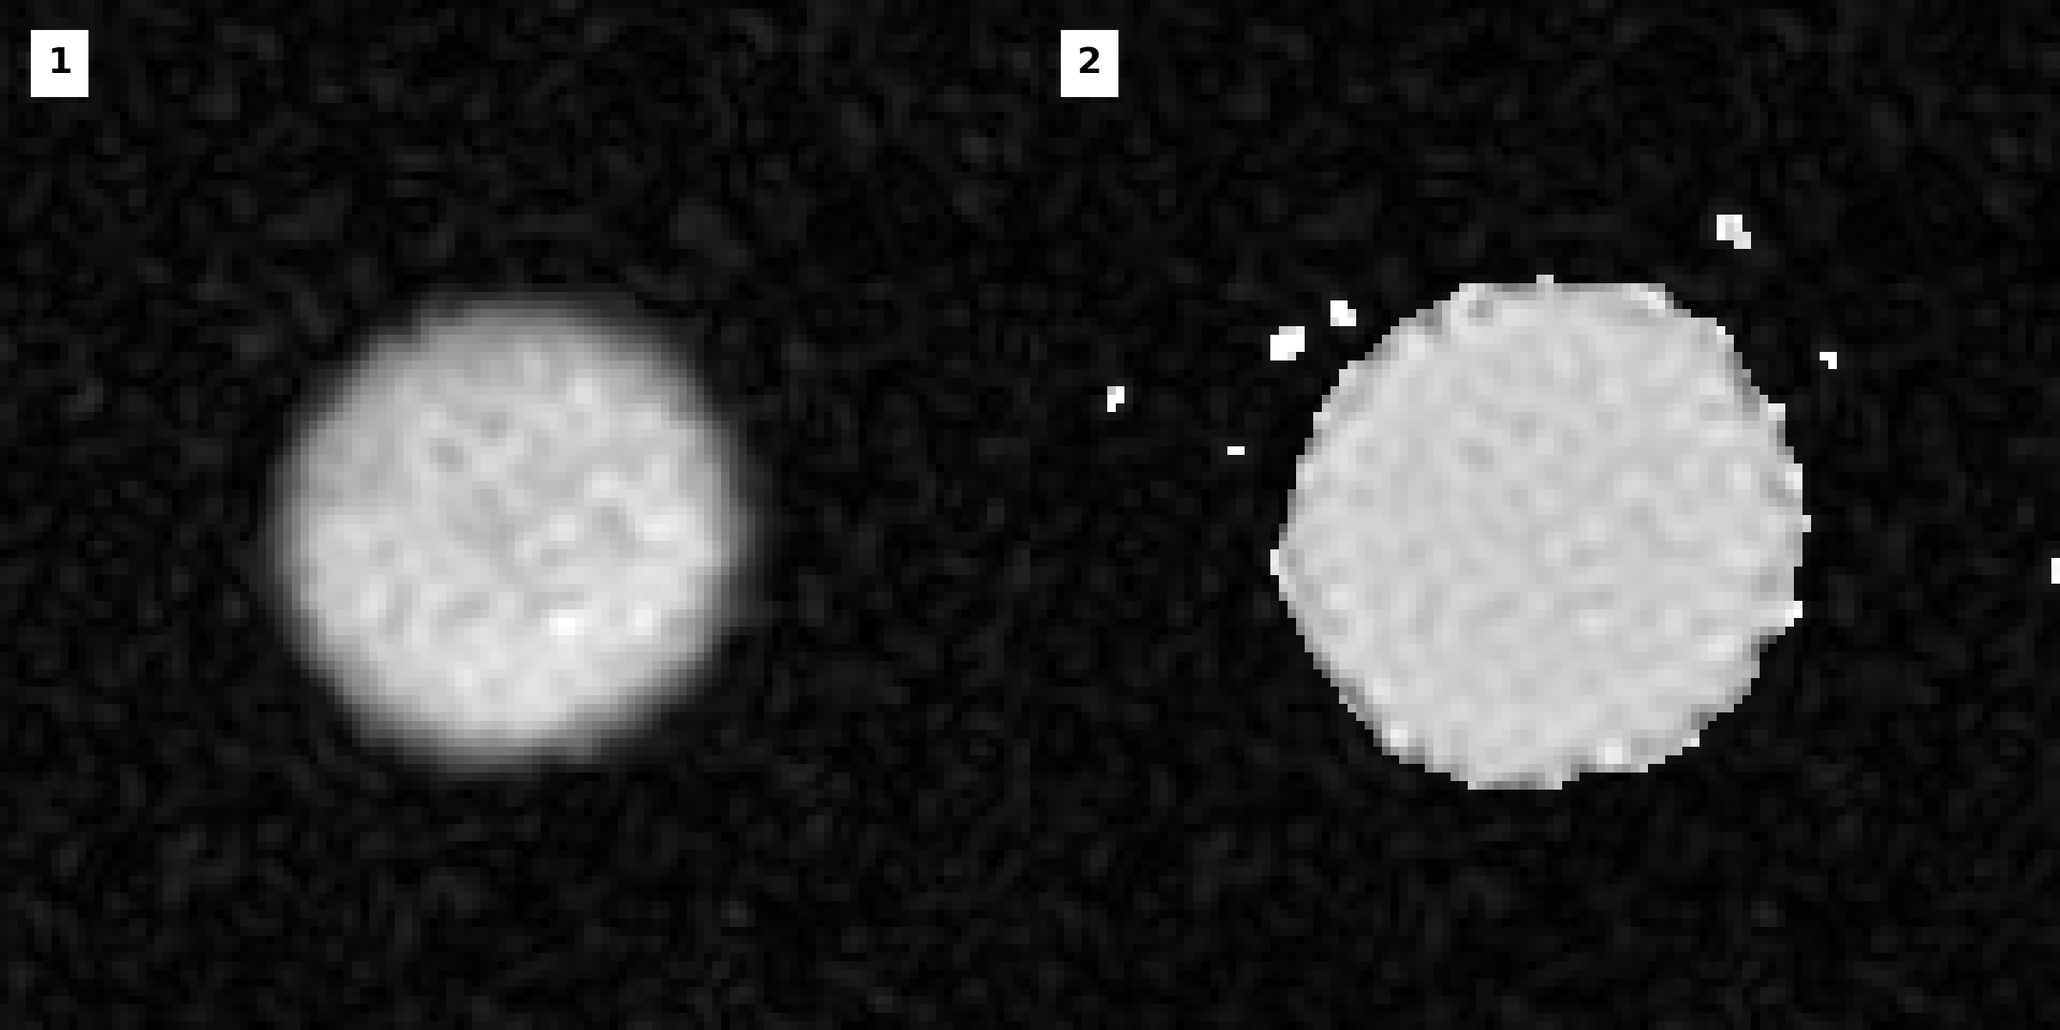
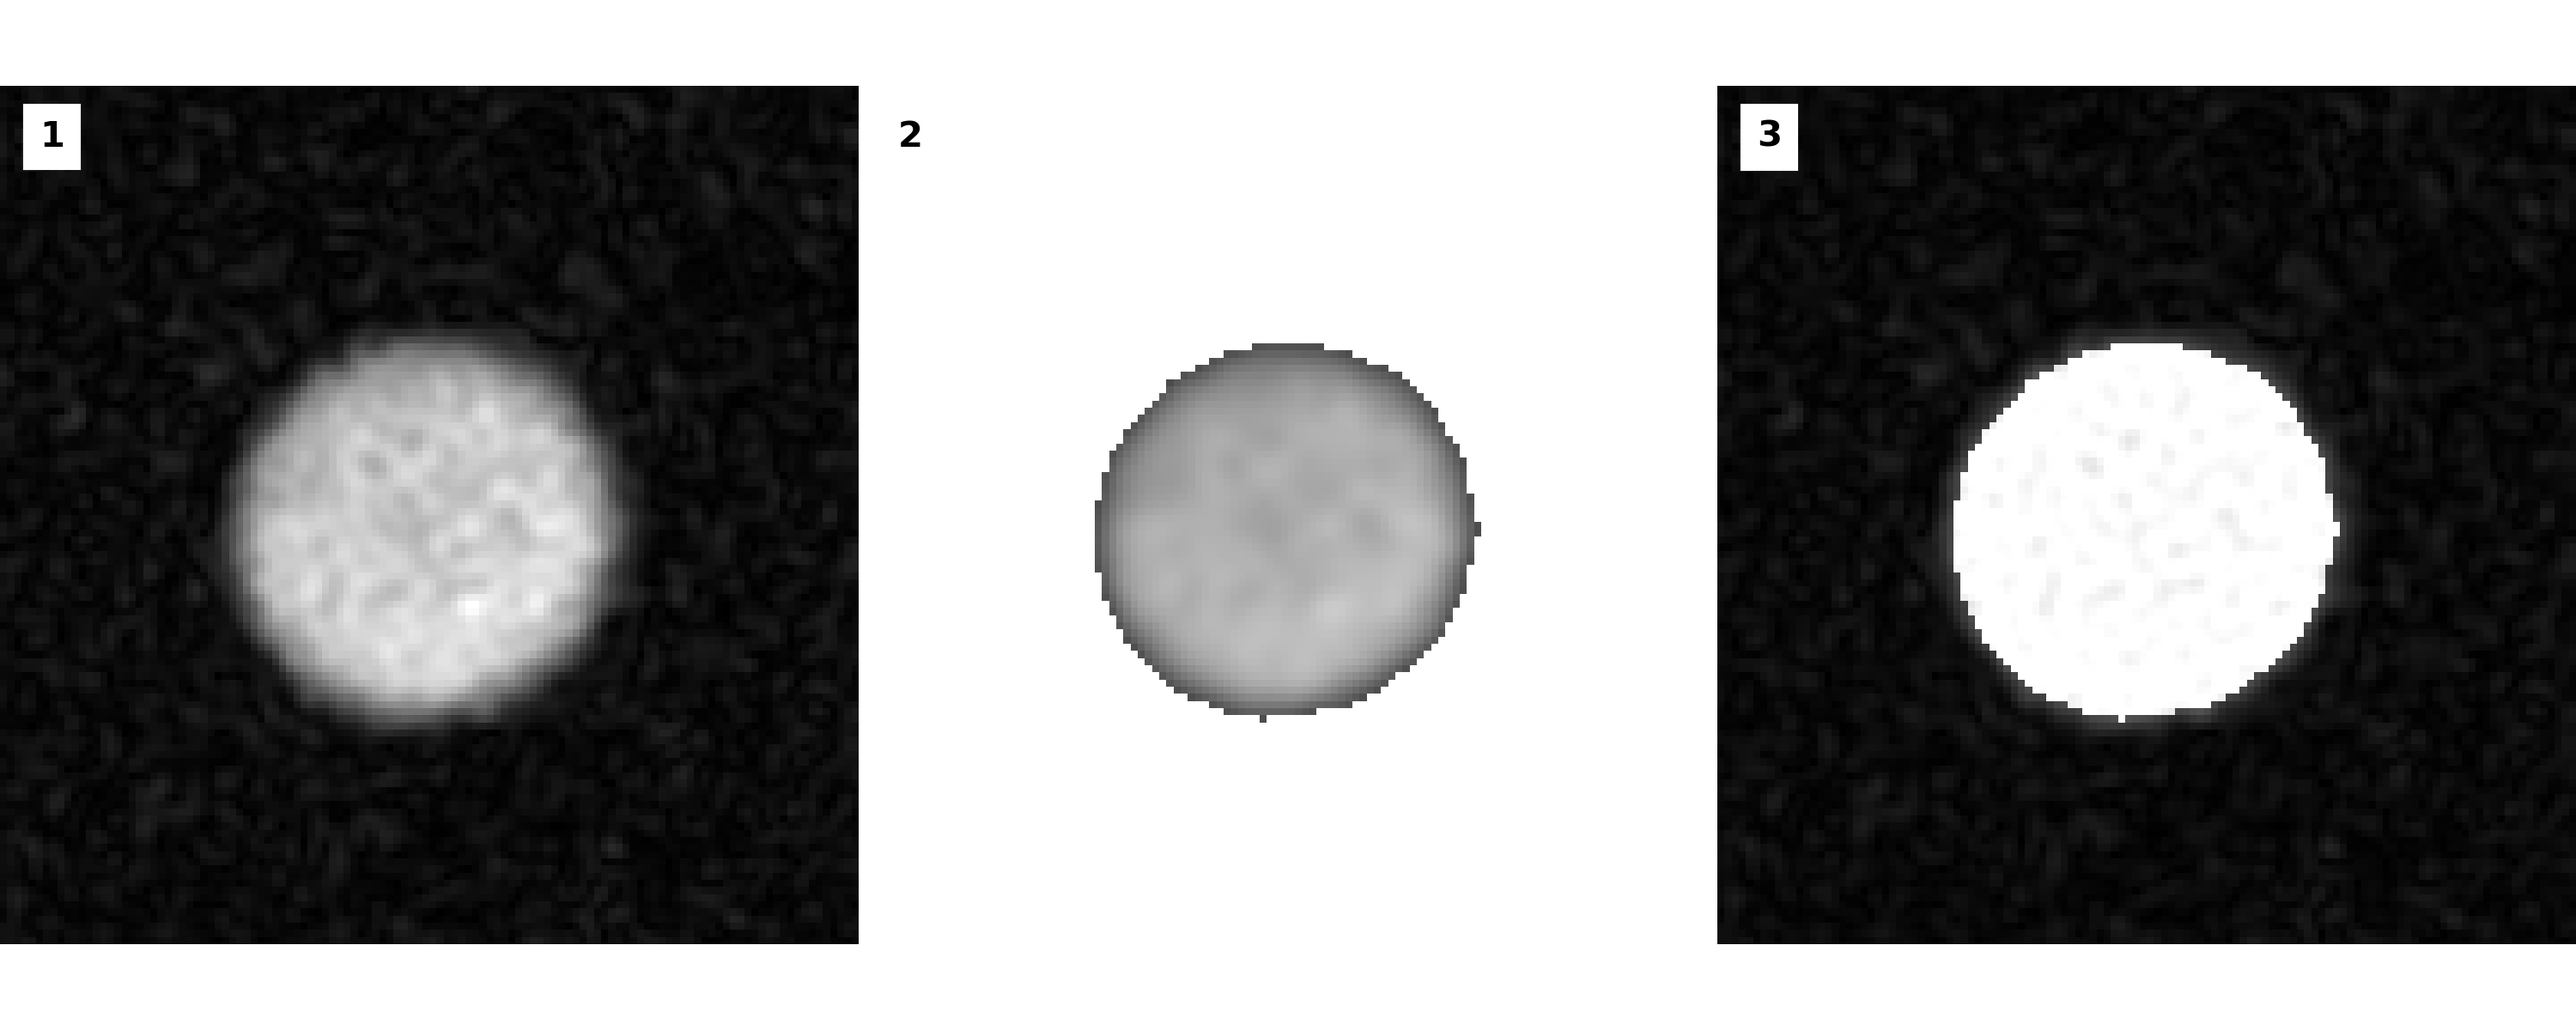
make line in stamp image line plots

diff --git a/MRImages.py b/MRImages.py
@@ -59,17 +59,6 @@ def calculate_SNR(S_values, N_values):
     snr = 0.655 *signal/sd
     return snr
 
-def signal_corr_infinityTR(flipangle, tr, t1):
-    num = 1-np.cos(flipangle)*np.e**(-tr/t1)
-    denom = 1-np.e**(-tr/t1)
-    return num/denom
-
-def b1_field_map(img1alpha, img2alpha, alpha1, alpha2, tr, t1):
-    s1 = abs(img1alpha)*signal_corr_infinityTR(flipangle=alpha1, tr=tr, t1=t1)
-    s2 = abs(img2alpha)*signal_corr_infinityTR(flipangle=alpha2, tr=tr, t1=t1)
-    teta = np.arccos(s2/(2*s1))
-    return teta
-
 def blurring_2D(img, kernel_size, padding=0, rep=1):
     k = np.ones((kernel_size))/kernel_size
     out = img.copy()
@@ -139,7 +128,6 @@ for k, coil in enumerate(coils):
     axs[3].text(0.1, 0.6, f"{real_names[k]}", clip_on=False, fontweight="bold", fontsize="x-large")
     axs[3].axis("off")
     snrs_this_coil = []
-    lines_this_coil = []
     for i, ros in enumerate(readouts):
         if k>3:
             im_volume = np.load(numpy_files_path+f"{coil}_{ros}_TG50.npy")
@@ -172,28 +160,37 @@ plt.close("all")
 # B1 CORRECTION - blurred version
 for coil in coils[-2:]:
     for r in readouts:
-        image = np.load(numpy_files_path+f"{coil}_{r}_TG50.npy")
+        image = np.load(numpy_files_path+f"{coil}_{r}_TG50.npy")#_TG50
         image = norm_magn_image(image)
         ind = int(len(image)/2)
         image_slice = image[ind]
-        fig, axs = plt.subplots(1, 2, figsize=(8, 4))
+        #image_slice = np.ma.where(image_slice<0.01, np.ones_like(image_slice)*0.01, image_slice)
+        fig, axs = plt.subplots(1, 3, figsize=(10, 4))
         axs[0].imshow(image_slice, cmap=my_cmap)
         blurred_slice = blurring_2D(image_slice, kernel_size=3, padding=1, rep=3)
-        blurred_norm = blurred_slice/np.max(blurred_slice)
-        blurred_norm_region = np.ma.where(blurred_norm>0.1, blurred_norm, np.ones_like(blurred_norm))
-        new = image_slice/blurred_norm_region
-        axs[1].imshow(new, cmap=my_cmap, vmin=0, vmax=1)
+        blurred_norm = blurred_slice#/np.max(blurred_slice)
+        blurred_norm = np.ma.where(blurred_slice<0.3, np.ones_like(blurred_slice), blurred_slice)
+        #blurred_norm_region = np.ma.where(blurred_norm>0.1, blurred_norm, np.ones_like(blurred_norm))
+        blurr_div = image_slice/blurred_norm
+        axs[1].imshow(blurred_norm, cmap=my_cmap, vmin=0, vmax=1)
+        axs[2].imshow(blurr_div, cmap=my_cmap, vmin=0, vmax=1)
         for i,ax in enumerate(axs):
             ax.axis("off")
             ax.text(5, 8, f"{i+1}", color="k", fontweight="bold", backgroundcolor="w")
         plt.tight_layout(pad=0)
-        fig.savefig(f"{coil}_{r}_blurr_corr.png", dpi=300 ,transparent=True)
+        #fig.savefig(f"{coil}_{r}_blurr_corr.png", dpi=300 ,transparent=True)
         #plt.show()
 plt.close("all")
 
 # B1 CORRECTION - b1 field map
+def signal_corr_infinityTR(flipangle, tr, t1):
+    num = 1-np.cos(flipangle)*np.e**(-tr/t1)
+    denom = 1-np.e**(-tr/t1)
+    return num/denom
 def b1_corr_doubleangle(img60, img120, method="multiply"):
-    b1map = b1_field_map(img1alpha=img60, img2alpha=img120, alpha1=60, alpha2=120, tr=100*1E-3, t1=40*1E-3) # Flip angle is proportional to RF field strength, i.e. a map of b1
+    s1 = abs(img60)*signal_corr_infinityTR(flipangle=60, tr=100*1E-3, t1=40*1E-3)
+    s2 = abs(img120)*signal_corr_infinityTR(flipangle=120, tr=100*1E-3, t1=40*1E-3)
+    b1map = np.arccos(s2/(2*s1))
     b1map = np.nan_to_num(b1map, copy=True, nan=0.001)
     fa_max = np.max(b1map)
     if method=="multiply":
@@ -229,10 +226,11 @@ for name in names_b1_corr_files:
         if i>0:
             axs[i].imshow(imgs[i-1], cmap=my_cmap, vmin=0, vmax=1)
     plt.tight_layout(pad=0)
-    plt.show()
+    #plt.show()
     # fig.savefig(f"{name}_b1_DA_corr.png", dpi=300 ,transparent=True)
 plt.close("all")
 
+# Coil SNR plot
 cmap = mpl.colormaps.get_cmap("plasma")
 fig, axs = plt.subplots(1, 1, figsize = (7, 6))
 axs.set_ylim([0, 90])
@@ -245,7 +243,6 @@ coil_snrs = {
 for i, scan in enumerate(scans):
     for j in range(len(coils)):
         coil_snrs[scan].append(calculated_snrs[j][i])
-#print(coil_snrs)
 positions = np.arange(len(coils))
 width = 0.2
 multiplier = 0 
@@ -263,7 +260,29 @@ axs.legend(loc="upper left")
 #fig.savefig(f"SNRs_all_coils", dpi=300 ,transparent=True)
 plt.close("all")
 
-cvals = np.linspace(0, 1, len(coils))
+# Show circle of phantom
+phantom_image = np.load(numpy_files_path+f"Birdcage_2552_X.npy")
+abs_phantom = abs(phantom_image)
+maximum = np.max(abs_phantom)
+normalized_phantom = abs_phantom/maximum
+total_len = len(normalized_phantom)
+current_index = int(total_len/2)
+y = [23, 60]
+radius=(y[1]-y[0])/2
+center = [20+radius, 23+radius]
+len_1d = len(normalized_phantom[current_index])
+circ_mask = create_circular_mask(h=len_1d, w=len_1d, center=center, radius=radius)
+phantom_img_theory = np.ones_like(normalized_phantom[current_index])*circ_mask*-1
+# Actual line plots
+linestyle_tuple = [
+     "solid",
+     "dotted", 
+     "dashed",
+     "dashdot",
+     (0, (5, 1)), # densely dashed
+     (0, (10, 3)), # long dashed
+     (0, (3, 1, 1, 1))] #densely dashdotted
+cvals = np.linspace(0, 0.8, len(coils))
 x_80 = np.linspace(0, 24, 80)
 diff_80 = x_80[1]-x_80[0]
 x_120 = np.linspace(0, 24, 120)
@@ -280,15 +299,18 @@ for i, lines in enumerate(coil_lines):
         x_0 = 0
         start = int(index_t-extra)
         xs = [f*diff for f in range(len(line[start:]))]
-        ax.plot(xs, line[start:], color=cmap(cvals[j]), label=coils[j])
+        ax.plot(xs, line[start:], color=cmap(cvals[j]), label=coils[j], linestyle=linestyle_tuple[j])
         ax.set_xlabel("cm") # Transform from pixel to centimeter
         ax.set_ylabel("Normalized magnitude")
         phantom_d = 11.5 #cm
-        ax.axvspan(1.2, 1.2+phantom_d, facecolor="lightgray", alpha=0.1)
+        offset_from_coil = 1.2
+        ax.set(xlim=(0, 22), ylim=(0, 1))
+        im = ax.imshow(phantom_img_theory, extent=[17,20,0.5,0.65], aspect="auto", cmap="Greys", vmin=-2, vmax=1) # (xmin, xmax, ymin, ymax)
+        ax.axvspan(offset_from_coil, offset_from_coil+phantom_d, facecolor="lightgray", alpha=0.1)
         plt.legend()
-        plt.grid(True)
+        #plt.grid(True, zorder=10)
         #plt.savefig( f"3Dcones{i+1}_line_plots.png", dpi=300, transparent=True)
-#plt.show()
+plt.show()
 plt.close("all")
 
 
@@ -320,26 +342,3 @@ plt.close("all")
 # prev_button.on_clicked(lambda event: update_plot(forward=False))
 
 
-""" FIND CIRCLE OF PHANTOM """
-# im_volume = np.load(numpy_files_path+f"Birdcage_2552_X.npy")
-# abs_array = abs(im_volume)
-# maximum = np.max(abs_array)
-# normalized_field_magn = abs_array/maximum
-# total_len = len(normalized_field_magn)
-# current_index = int(total_len/2)
-
-# y = [23, 60]
-# radius=(y[1]-y[0])/2
-# center = [20+radius, 23+radius]
-# print(center)
-
-# len_1d = len(normalized_field_magn[current_index])
-# circ_mask = create_circular_mask(h=len_1d, w=len_1d, center=center, radius=diffx/2)
-# #print(circ_mask)
-
-# img = plt.imshow(normalized_field_magn[current_index]*circ_mask, cmap=my_cmap, vmin=0, vmax=1) 
-# plt.xlabel("x")
-# plt.ylabel("y")
-# plt.colorbar(img, label="Normalized") #cax=cbar_ax, location="bottom"
-# plt.title(f"Birdcage coil,\n2552 readouts, 3x3x3, 25% k-space sampling")
-# plt.show()
